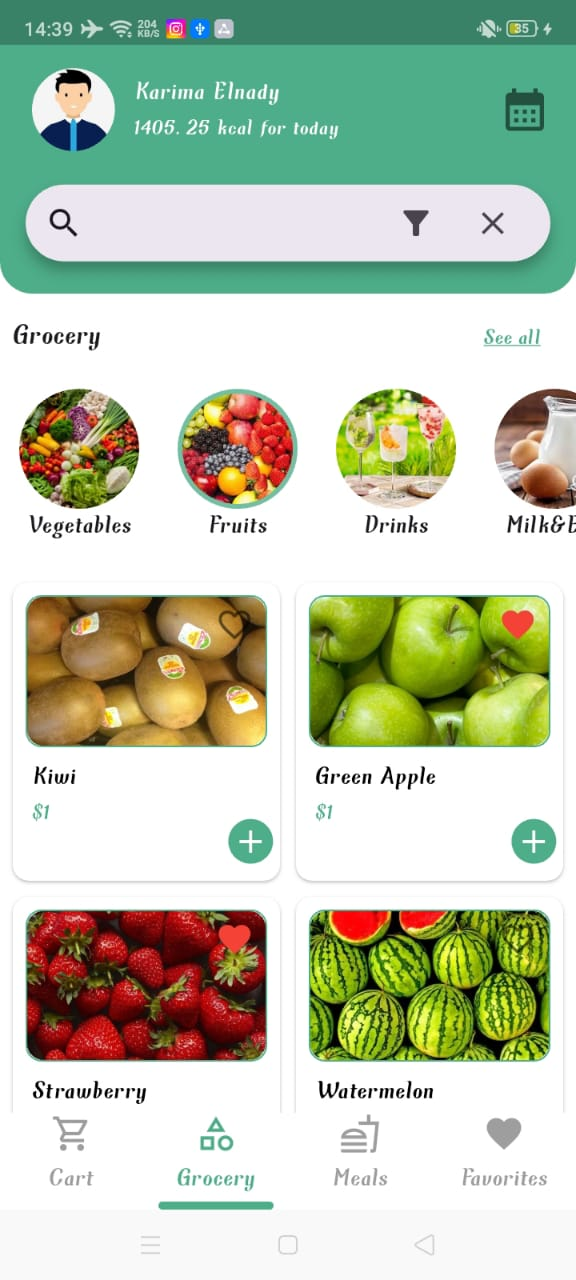
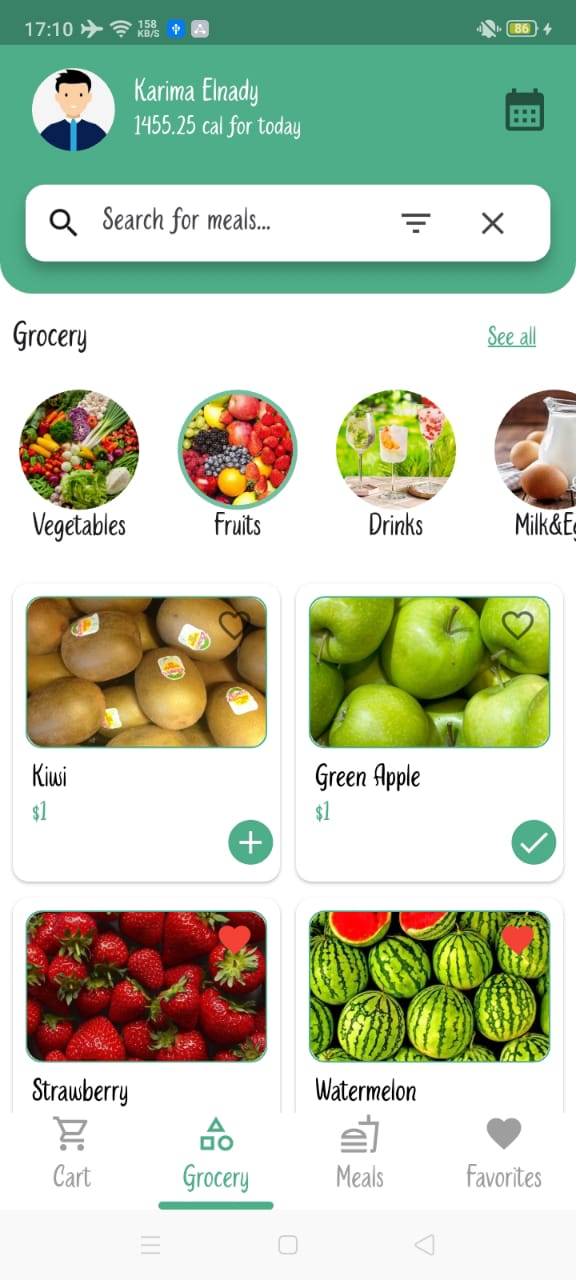
updated screens

diff --git a/lib/features/meals/presentation/pages/meal_descroption/widgets/meal_image_container.dart b/lib/features/meals/presentation/pages/meal_descroption/widgets/meal_image_container.dart
@@ -1,10 +1,8 @@
 import 'package:flutter/material.dart';
-import 'package:flutter_bloc/flutter_bloc.dart';
 import 'package:get/get.dart';
 import 'package:meal_planning_app/core/utils/size_config.dart';
 import 'package:meal_planning_app/core/widgets/custom_icon_button.dart';
 import 'package:meal_planning_app/features/meals/data/models/meal_model.dart';
-import 'package:meal_planning_app/features/meals/presentation/manager/fav_meals_cubit/cubit/fav_meals_cubit.dart';
 import 'package:meal_planning_app/features/meals/presentation/pages/meal_descroption/widgets/meal_fav_button.dart';
 
 class MealImageContainer extends StatelessWidget {
@@ -47,10 +45,7 @@ class MealImageContainer extends StatelessWidget {
         Positioned(
           top: SizeConfig.defaultSize! * 5,
           right: SizeConfig.defaultSize! * 3,
-          child: BlocProvider.value(
-            value: BlocProvider.of<FavMealsCubit>(context)..getFavMeals(),
-            child: MealFavButton(meal: meal, iconSize: 28),
-          ),
+          child: MealFavButton(meal: meal, iconSize: 28),
         ),
         Positioned(
           bottom: SizeConfig.defaultSize! * 3,

diff --git a/lib/features/home/presentation/pages/cart/widgets/cart_bottom_sheet.dart b/lib/features/home/presentation/pages/cart/widgets/cart_bottom_sheet.dart
@@ -28,14 +28,14 @@ class CartBottomSheet extends StatelessWidget {
   @override
   Widget build(BuildContext context) {
     return SizedBox(
-      height: SizeConfig.screenHeight! * 0.2,
+      height: SizeConfig.screenHeight! * 0.19,
       child: Padding(
         padding: const EdgeInsets.all(8.0),
         child:
             isLoadded!
                 ? Column(
                   children: [
-                    VerticalSpace(2),
+                    VerticalSpace(1.5),
                     TextRow(
                       headText: 'Total Price:',
                       valueText: '\$$totalPrice',
@@ -44,7 +44,7 @@ class CartBottomSheet extends StatelessWidget {
                       headText: 'Total Calories:',
                       valueText: '$totalCalories cal',
                     ),
-                    VerticalSpace(1),
+                    VerticalSpace(0.5),
                     SizedBox(
                       height: 40,
                       width: SizeConfig.screenWidth! * 0.7,

diff --git a/lib/features/meals/presentation/pages/fav_meals_view/widgets/fav_meals_view_body.dart b/lib/features/meals/presentation/pages/fav_meals_view/widgets/fav_meals_view_body.dart
@@ -28,13 +28,6 @@ class FavMealsViewBody extends StatelessWidget {
             itemBuilder: (context, index) {
               final item = items[index];
               return GestureDetector(
-                // onTap: (){
-
-                //   Get.to(
-                //   () => MealDescriptionView(meal: items[index].),
-                //   duration: const Duration(milliseconds: 500),
-                //   transition: getx.Transition.rightToLeft,
-                // );},
                 child: FavMealsCard(
                   item: item,
                   onPressed: () async {
@@ -47,7 +40,7 @@ class FavMealsViewBody extends StatelessWidget {
         } else if (state is FavError) {
           return Center(child: Text(state.errorMessage));
         } else {
-          return const Center(child: Text('Your cart is empty'));
+          return const Center(child: Text('Your Fav list is empty'));
         }
       },
     );

diff --git a/lib/features/home/presentation/manager/cubits/cart_cubit/cubit/cart_cubit.dart b/lib/features/home/presentation/manager/cubits/cart_cubit/cubit/cart_cubit.dart
@@ -16,7 +16,7 @@ class CartCubit extends Cubit<CartState> {
     : super(CartLoading());
 
   Future<void> getCartItems() async {
-    emit(CartLoading());
+    // emit(CartLoading());
     final result = await repo.getCartData();
 
     result.fold((error) => emit(CartError(errorMessage: error.toString())), (
@@ -82,9 +82,8 @@ class CartCubit extends Cubit<CartState> {
 
   Future<void> removeAll() async {
     try {
-      emit(CartLoading());
       await repo.removeAll();
-      await getCartItems();
+      emit(CartEmpty());
     } catch (e) {
       emit(CartError(errorMessage: e.toString()));
     }

diff --git a/lib/core/widgets/custom_search_bar.dart b/lib/core/widgets/custom_search_bar.dart
@@ -44,7 +44,7 @@ class _CustomSearchBarState extends State<CustomSearchBar> {
           builder: (BuildContext context, SearchController controller) {
             return SearchBar(
               controller: controller,
-              hintText: 'Serch for meals...',
+              hintText: 'Search for meals...',
               padding: const WidgetStatePropertyAll<EdgeInsets>(
                 EdgeInsets.symmetric(horizontal: 12),
               ),

diff --git a/lib/features/meal_planner/presentation/pages/plans_view/plan_view.dart b/lib/features/meal_planner/presentation/pages/plans_view/plan_view.dart
@@ -8,6 +8,7 @@ class PlanView extends StatelessWidget {
   @override
   Widget build(BuildContext context) {
     return Scaffold(
+      backgroundColor: Colors.white,
       appBar: SimpleAppBar(
         pageName: 'Plan Your Meals',
         withDefaultColor: false,
